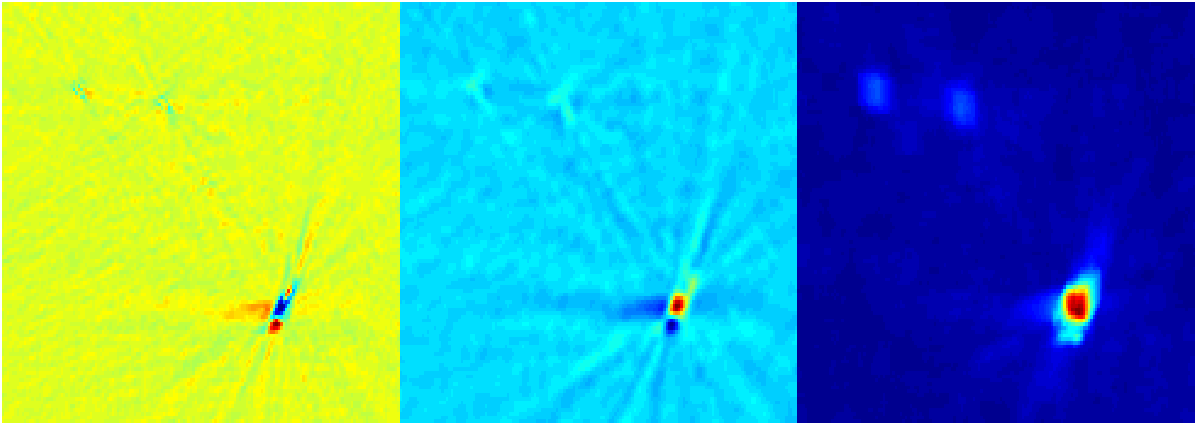
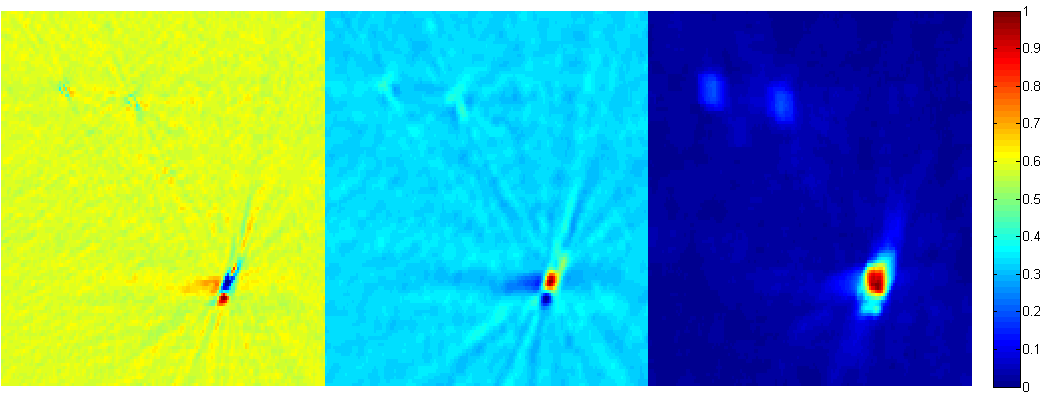
more work done

diff --git a/spiePaper/spieManuscript.tex b/spiePaper/spieManuscript.tex
@@ -123,22 +123,22 @@ We compared windows around a pixel in the baseline scan and comparison scan usin
 
 \section{Pipeline}
 
-With each ablation, there was a baseline CBCT scan as well as 1-4 comparison CBCT scans taken during the procedure. The baseline scan was taken after the needle was inserted but before any heating occurred. The comparison scans were taken at various stages of heating and cooling the needle. For each comparison scan, a corresponding thermal map was generated via the following procedure:
+With each ablation, there was a baseline CBCT scan as well as 1-4 comparison CBCT scans taken during the procedure. The baseline scan was taken after the needle was inserted but before any temperature changes. The comparison scans were taken at various stages of heating and cooling the needle. For each comparison scan, a corresponding thermal map was generated via the following procedure:
 \begin{enumerate}
 \item Register the comparison scan to the baseline scan
 \item Use Connected Component Analysis and Principal Component Analysis (PCA) to detect the Needle and Thermocouple tips
 \item Use the result to identify an ROI
-\item Take the ROI, filter the ROI in the baseline and comparison scans with an averaging filter, and calculate the difference
+\item Filter the ROI in the baseline and comparison scans with an averaging filter, and calculate the difference
 \item Use the result to locate where the ablation likely occurred
 \item Calculate the Spatial Offset RMSE value for the ROI
-\item Correlate Spatial Offset RMSE values from inside the temperature zones with the measured temperature data at the needle and thermocouple tips. 
-\item Use the regression model from the correlation calculated to generate a thermal map for the entire ROI
+\item Correlate Spatial Offset RMSE values at the temperature zones with the measured temperature data there. 
+\item Use the regression model from the correlation calculated to generate a thermal map for the ROI
 \end{enumerate}
 
 
 \subsection{Image Registration}
 
-For the registration step, the 3D comparison scan was registered to the 3D baseline scan using the software package NiftyReg. We used the \textbf{\href{http://cmictig.cs.ucl.ac.uk/wiki/index.php/Reg_aladin}{reg aladin}} command to perform an affine registration\cite{Ourselin01}. This was used to try to account for movement of the organs between different scans. We then used the \textbf{\href{http://cmictig.cs.ucl.ac.uk/wiki/index.php/Reg_f3d}{reg f3d}} command to perform non-rigid registration\cite{Modat10}. This was an attempt to align the organs in such a way that accounted for changes in their shape between scans. Figure \ref{beforeAndAfterReg} shows an example of image slices before and after registration. 
+For the registration step, the comparison scan volume was registered to the baseline scan volume using the software package NiftyReg. We used the \textbf{\href{http://cmictig.cs.ucl.ac.uk/wiki/index.php/Reg_aladin}{reg aladin}} command to perform an affine registration\cite{Ourselin01} in order to account for movement of the organs between different scans. We then used the \textbf{\href{http://cmictig.cs.ucl.ac.uk/wiki/index.php/Reg_f3d}{reg f3d}} command to perform non-rigid registration\cite{Modat10} in order to align the organs in such a way that accounted for changes in their shape between scans. Figure \ref{beforeAndAfterReg} shows an example of image slices before and after registration. 
 
 \begin{figure} 
 \centering 
@@ -174,7 +174,7 @@ The HU values for the needle and thermocouple are significantly higher than the 
 
 \subsection{Change Detection}
 
-These images have a low signal to noise ratio as well as beam hardening artifacts. We thus decided to use a window around each pixel in order to have a more robust change value. Initially we calculated the mean difference between the baseline image window and the comparison image window and used that as the value of the pixel in the result image. This is equivalent to performing a convolution on both images with an averaging filter and then taking the difference between the filtered images. The result images were used to provide an estimate of how the thermal map will appear. They are still too noisy to be used for the thermal map though. 
+These images have a low signal to noise ratio as well as beam hardening artifacts. We thus decided to use a window around each pixel in order to obtain a more robust change value. Initially we calculated the mean difference between the baseline image window and the comparison image window and used that as the value of the pixel in the result image. This is equivalent to performing a convolution on both images with an averaging filter and then taking the difference between the filtered images. The result images were used to provide an estimate of how the thermal map will appear. They are still too noisy to be used for the thermal map though. 
 
 In order to find a better result image, for each pixel, we calculated the minimum RMSE between the baseline and comparison windows assuming that there is a spatial offset between them. For each pixel, let $U$ be the $n$ by $n$ window around it in the baseline image and let $V$ be the $n$ by $n$ window around it in the comparison image. We made the matrix $U'$ which is $U$ repeated in the following manner:
 \[
@@ -189,13 +189,13 @@ Figure \ref{changeDetectionMethods} shows the result image after applying the me
 \begin{figure} 
 \centering 
 \includegraphics[width=\textwidth]{changeDetectionPanel2.png} 
-\caption{Results of different change metrics in the ROI. Raw subtraction (left), Filtered Difference (center), and Spatial Offset RMSE (right)} 
+\caption{Results of different change metrics in the ROI. Raw subtraction (left), Filtered Difference (center), and Spatial Offset RMSE (right). Each image is normalized in order to show how the thermal map would appear} 
 \label{changeDetectionMethods}
 \end{figure}
 
 \subsection{Regression}
 
-After generating the Spatial Offset RMSE result image, we find the coordinates where the measured temperature zones are located. We correlate the result image values with the measured temperature changes at those zones using linear regression. We then take the regression equation found and compute its output across the result image. This gives us the thermal map. Figure \ref{RegressionCurve} shows the plot of Spatial Offset RMSE versus Temperature Change as well as the regression curve calculated from it. Figure \ref{ThermalMap} shows the resulting thermal map.
+After generating the Spatial Offset RMSE result image, we find the coordinates where the measured temperature zones are located. We correlate the result image values with the measured temperature changes at those zones using linear regression. We then take the regression equation calculated and apply it to the result image to generate a thermal map. Figure \ref{RegressionCurve} shows the plot of Spatial Offset RMSE versus Temperature Change as well as the regression curve calculated from it. Figure \ref{ThermalMap} shows the resulting thermal map.
 
 \begin{figure} 
 \centering 
@@ -217,7 +217,7 @@ We used a data set of CBCT scans taken for 13 patients whose procedures were per
 
 \subsection{Finding Error Rates}
 
-We decided to take the thermal maps generated from regression and see the average temperature in the zones that we were testing. We then did an RMSE of those temperatures with the measured temperatures. We divided this RMSE by the temperature range in order to obtain an error ratio. The results are in the table below. In that table, temperatures are in Celsius and \textit{Temps (From Regression)} is the average temperature in the neighborhood around the needle or thermocouple (with radius specified by \textit{Neighborhood Radius}) in the thermal map calculated from regression. 
+We decided to take the thermal maps generated from regression and see the average temperature in the zones that we were testing. We then did an RMSE of those temperatures with the measured temperatures. We divided this RMSE by the temperature range in order to obtain an error ratio. The results are in table 1. In the table, temperatures are in Celsius and \textit{Temps (From Regression)} is the average temperature in the neighborhood around the needle or thermocouple (with radius specified by \textit{Neighborhood Radius}) in the thermal map calculated from regression. 
 
 \begin{tabular}{ | l | l | l | l | l | l | l | }
 \hline

diff --git a/matlab/generatePosterPictures.m b/matlab/generatePosterPictures.m
@@ -85,12 +85,17 @@ rawDiffROI = rawDiffSlice(rInds,cInds);
 diffImageROI = diffImageSlice(rInds,cInds);
 diffFrameImage = sqrt(diffFrameBlock(:,:,slidWindowSliceNum));
 
-rawROI = putin01scale(rawDiffROI(5:117,5:167));
-convROI = putin01scale(diffImageROI(5:117,5:167));
-slidROI = putin01scale(diffFrameImage);
+rawROI = rawDiffROI(5:117,5:167);
+convROI = diffImageROI(5:117,5:167);
+slidROI = diffFrameImage;
+
+rawROI = putin01scale(rawROI);
+convROI = putin01scale(convROI);
+slidROI = putin01scale(slidROI);
 
 figure
 imagesc([rawROI convROI slidROI]);
+colorbar;
 axis off
 
 %{
